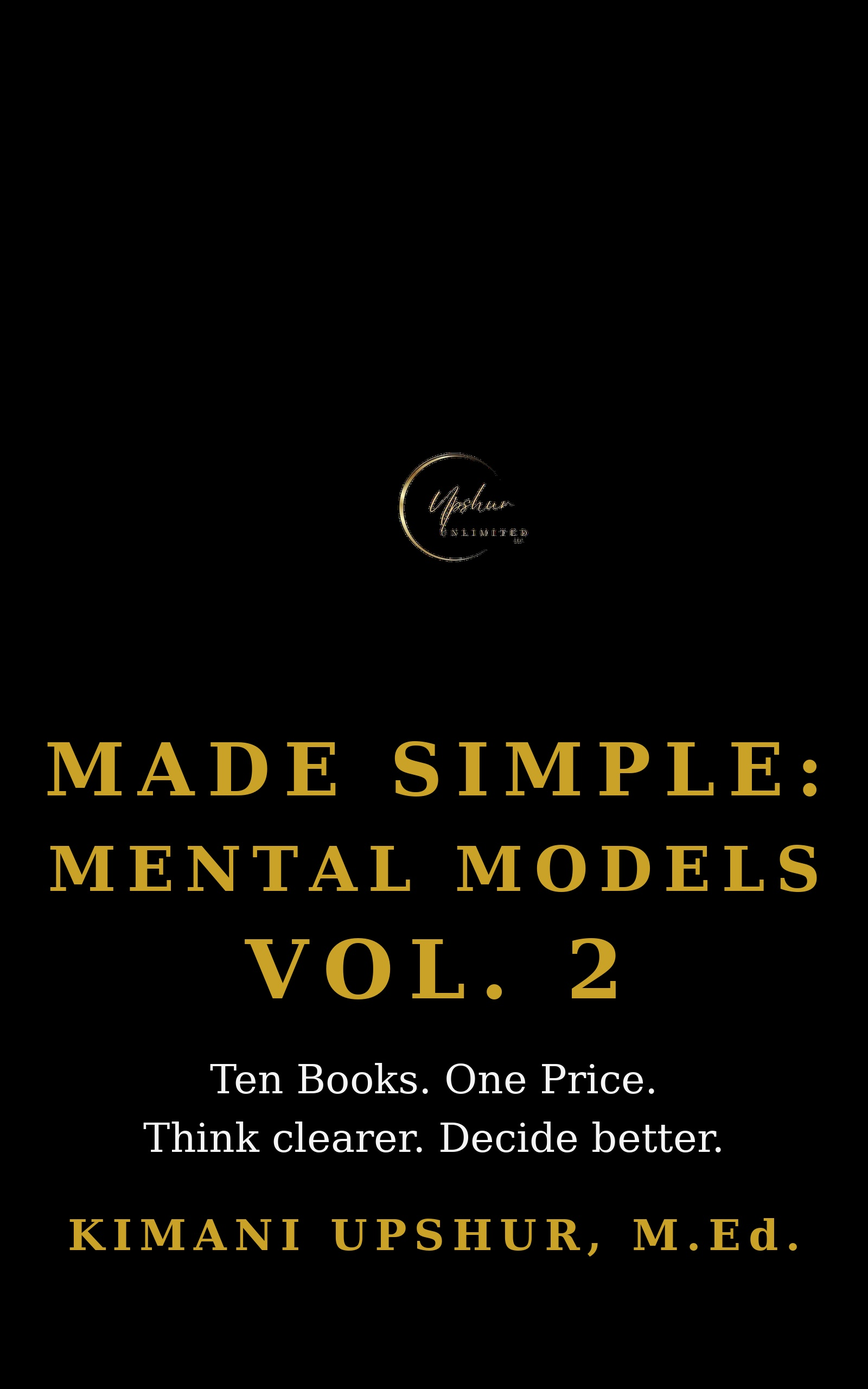
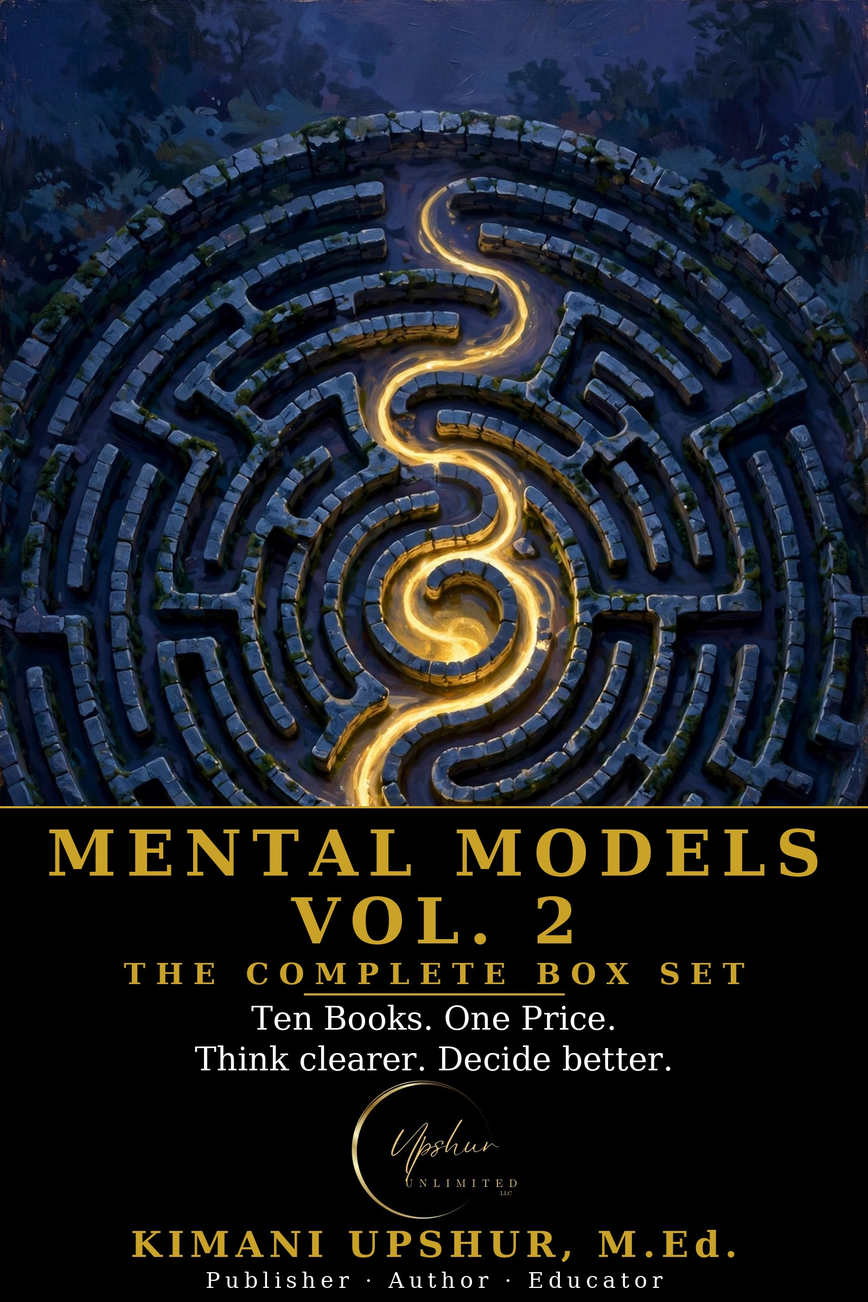
Box set cover: Mental Models Vol. 2 new art (hash-verified)

diff --git a/books/mental-models-vol-2-the-complete-box-set/index.html b/books/mental-models-vol-2-the-complete-box-set/index.html
@@ -159,7 +159,7 @@ footer .fine p,footer .fine a{color:#9AA5B3}
 <p class="bread"><a href="/">Home</a> / <a href="/books/">Books</a></p>
 <h1>Made Simple: Mental Models Vol. 2 — The Complete Box Set</h1>
 <p class="byline">by Kimani Upshur, M.Ed.</p>
-<figure class="cover" style="margin:6px 0 18px"><img src="cover.jpg" onerror="this.style.display='none'" alt="Made Simple: Mental Models Vol. 2 — The Complete Box Set book cover by Kimani Upshur, M.Ed." width="1600" height="2560" loading="lazy" style="max-width:280px;width:100%;height:auto;border-radius:10px;border:2px solid #D4AF63"></figure>
+<figure class="cover" style="margin:6px 0 18px"><img src="cover.jpg" onerror="this.style.display='none'" alt="Made Simple: Mental Models Vol. 2 — The Complete Box Set book cover by Kimani Upshur, M.Ed." width="1600" height="2400" loading="lazy" style="max-width:280px;width:100%;height:auto;border-radius:10px;border:2px solid #D4AF63"></figure>
 
 <p class="desc">Made Simple: Mental Models Vol. 2 — The Complete Box Set
 by Kimani Upshur, M.Ed.
